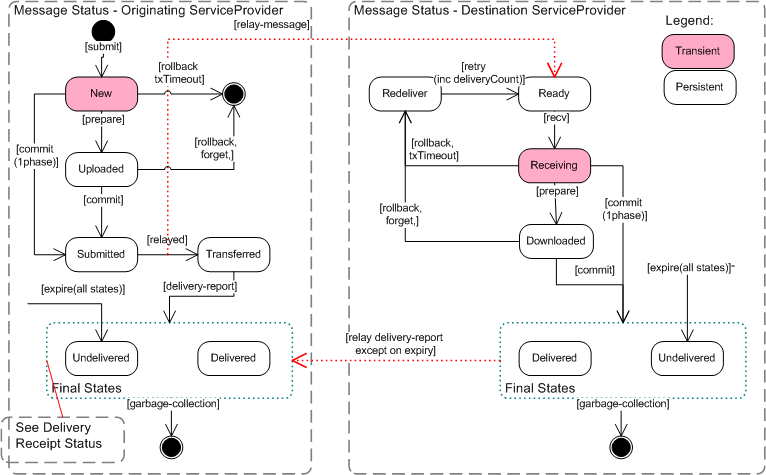
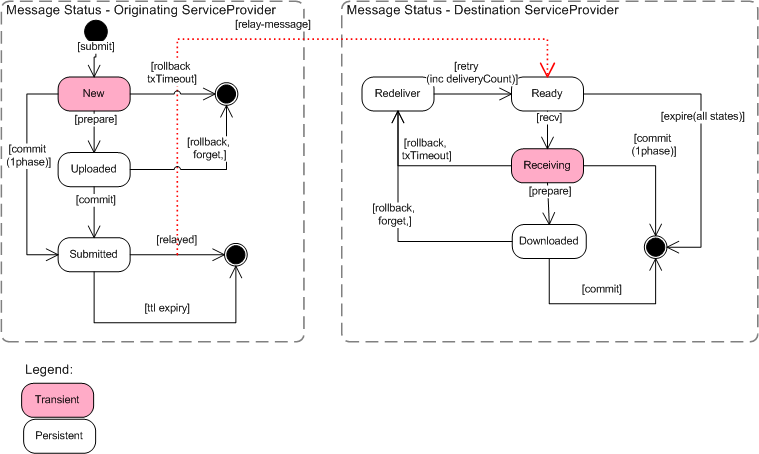
#115: redesign without DR.

Changed region(s): [[0.0, 0.0, 1.0, 1.0], [0.8485, 0.4934, 0.9697, 0.6167], [0.3939, 0.8634, 0.4242, 0.8943]]

diff --git a/service/src/main/java/org/tdmx/server/ws/mds/MDSImpl.java b/service/src/main/java/org/tdmx/server/ws/mds/MDSImpl.java
@@ -41,7 +41,6 @@ import org.tdmx.core.api.v01.mds.ws.MDS;
 import org.tdmx.core.api.v01.msg.ChunkReference;
 import org.tdmx.core.api.v01.msg.Destinationinfo;
 import org.tdmx.core.api.v01.msg.Destinationsession;
-import org.tdmx.core.api.v01.msg.Dr;
 import org.tdmx.core.api.v01.msg.Msg;
 import org.tdmx.core.api.v01.tx.Commit;
 import org.tdmx.core.api.v01.tx.CommitResponse;
@@ -62,14 +61,12 @@ import org.tdmx.lib.common.domain.ProcessingStatus;
 import org.tdmx.lib.message.domain.Chunk;
 import org.tdmx.lib.message.service.ChunkService;
 import org.tdmx.lib.zone.domain.Address;
-import org.tdmx.lib.zone.domain.AgentSignature;
 import org.tdmx.lib.zone.domain.Channel;
 import org.tdmx.lib.zone.domain.ChannelAuthorizationSearchCriteria;
 import org.tdmx.lib.zone.domain.ChannelMessage;
 import org.tdmx.lib.zone.domain.Destination;
 import org.tdmx.lib.zone.domain.Domain;
 import org.tdmx.lib.zone.domain.FlowQuota;
-import org.tdmx.lib.zone.domain.MessageState;
 import org.tdmx.lib.zone.domain.MessageStatus;
 import org.tdmx.lib.zone.domain.MessageStatusSearchCriteria;
 import org.tdmx.lib.zone.domain.Service;
@@ -131,7 +128,6 @@ public class MDSImpl implements MDS {
 	private int minTransactionTimeoutSec = 60; // 60s
 
 	private static final String NON_TX_SPEC_ID_PREFIX = "non-tx:";
-	private static final int DEFAULT_TX_TIMEOUT_SEC = 1800;
 
 	// -------------------------------------------------------------------------
 	// CONSTRUCTORS
@@ -274,37 +270,18 @@ public class MDSImpl implements MDS {
 			// caching the ROS address of the reverse channel
 
 			MessageContext ctx = rcv.endTransaction(tx.getXid());
-			if (ctx != null && ack.getDr() == null) {
-				// error not acknowledging previously received msg
-				ErrorCode.setError(ErrorCode.InvalidNonTransactionalAcknowledge, response, tx.getXid(), ctx.getMsgId());
-				return response;
-			} else if (ctx == null && ack.getDr() != null) {
+			if (ctx == null) {
 				// no current message in the session - cannot have a DeliveryReport
-				ErrorCode.setError(ErrorCode.InvalidDeliveryReceiptNoReceive, response, tx.getXid(),
-						ack.getDr().getMsgreference().getMsgId());
+				ErrorCode.setError(ErrorCode.InvalidAcknowledgeNoReceive, response);
 				return response;
-			} else if (ctx != null && ack.getDr() != null) {
-				ReceiptHolder rh = checkDr(tx.getXid(), ctx, ack.getDr(), response);
-				if (rh == null) {
-					return null;
-				}
+			} else {
 				// acknowledge the message, possibly opening the relay flow control
-				// FIXME ReceiptHolder.errorCode+msg too
 				ReceiveMessageResultHolder ackStatus = channelService.acknowledgeMessageReceipt(session.getZone(),
-						ctx.getMsg(), rh.signature);
+						ctx.getMsg());
 				if (ackStatus.flowControlOpened) {
 					// relay opened FC back to origin
 					relayFCWithRetry(session, rcv, ctx.getMsg().getChannel(), ackStatus.flowQuota);
 				}
-				if (ackStatus.msg.getState().isSameDomain()) {
-					// TODO #109: transfer DR back to origin
-
-				} else {
-					// relay DR back to origin
-					relayMsgWithRetry(session, rcv, ctx.getMsg().getChannel(), ctx.getMsg().getState());
-				}
-			} else {
-				log.debug("No current message and no DR for " + tx.getXid());
 			}
 		} else {
 			// must be tx or non tx not neither
@@ -415,47 +392,20 @@ public class MDSImpl implements MDS {
 		// Handle the acknowledge of previous received message and initiate relay back of DR
 		// caching the ROS address of the reverse channel
 		MessageContext ctx = rcv.endTransaction(ackRequest.getXid());
-		if (ctx != null && ackRequest.getDr() == null) {
-			// error not acknowledging previously received msg
-			ErrorCode.setError(ErrorCode.InvalidNonTransactionalAcknowledge, response, ackRequest.getXid(),
-					ctx.getMsgId());
-			return response;
-		} else if (ctx == null && ackRequest.getDr() != null) {
+		if (ctx == null) {
 			// no current message in the session - cannot have a DeliveryReport
-			ErrorCode.setError(ErrorCode.InvalidDeliveryReceiptNoReceive, response, ackRequest.getXid(),
-					ackRequest.getDr().getMsgreference().getMsgId());
+			ErrorCode.setError(ErrorCode.InvalidAcknowledgeNoReceive, response);
 			return response;
-		} else if (ctx != null && ackRequest.getDr() != null) {
-			// validate DR
-			ReceiptHolder rh = checkDr(ackRequest.getXid(), ctx, ackRequest.getDr(), response);
-			if (rh == null) {
-				return null;
-			}
+		} else {
 			// acknowledge the message, possibly opening the relay flow control
-			// FIXME ReceiptHolder.errorCode+msg too
 			ReceiveMessageResultHolder ackStatus = channelService.acknowledgeMessageReceipt(session.getZone(),
-					ctx.getMsg(), rh.signature);
-			if (ackStatus.flowControlOpened) {
+					ctx.getMsg());
+			if (ackStatus.flowControlOpened && !ctx.getMsg().getState().isSameDomain()) {
 				// relay opened FC back to origin
 				relayFCWithRetry(session, rcv, ctx.getMsg().getChannel(), ackStatus.flowQuota);
 			}
-			if (ackStatus.msg.getState().isSameDomain()) {
-				// transfer DR back to origin
-				// TODO #109: transfer DR back to origin
-			} else {
-				// relay DR back to origin
-				relayMsgWithRetry(session, rcv, ctx.getMsg().getChannel(), ctx.getMsg().getState());
-			}
-		} else {
-			log.debug("No current message and no DR for " + ackRequest.getXid());
 		}
 		return response;
-	}
-
-	private static class ReceiptHolder {
-		private Integer errorCode;
-		private String errorMessage;
-		private AgentSignature signature;
 	}
 
 	private Transaction getNonTransactionSpecification(Msgack ack) {
@@ -463,96 +413,6 @@ public class MDSImpl implements MDS {
 		tx.setTxtimeout(ack.getTxtimeout());
 		tx.setXid(NON_TX_SPEC_ID_PREFIX + ack.getClientId());
 		return tx;
-	}
-
-	private boolean isNonTransactionSpecification(Transaction txSpec) {
-		return txSpec.getXid().startsWith(NON_TX_SPEC_ID_PREFIX);
-	}
-
-	private ReceiptHolder checkDr(String xid, MessageContext msg, Dr ack,
-			org.tdmx.core.api.v01.common.Acknowledge response) {
-		Dr dr = checkAcknowledge(xid, msg, ack, response);
-		if (dr == null) {
-			return null;
-		}
-		ReceiptHolder res = new ReceiptHolder();
-		if (dr.getError() != null) {
-			res.errorCode = dr.getError().getCode();
-			res.errorMessage = dr.getError().getDescription();
-		}
-		if (dr.getReceiptsignature() != null) {
-			AgentSignature receipt = checkAcknowledgeSignature(msg, dr, response);
-			if (receipt == null) {
-				return null;
-			}
-			res.signature = receipt;
-		}
-		return res;
-	}
-
-	private AgentSignature checkAcknowledgeSignature(MessageContext msg, Dr dr,
-			org.tdmx.core.api.v01.common.Acknowledge response) {
-		AgentSignature receipt = a2d.mapUserSignature(dr.getReceiptsignature());
-		// check that the DR signer is the same as the receiver UC
-		if (!receipt.getCertificateChainPem()
-				.equals(msg.getMsg().getDeliveryReport().getReceiverSignature().getCertificateChainPem())) {
-			ErrorCode.setError(ErrorCode.InvalidDeliveryReceiptSignerMismatch, response);
-			return null;
-		}
-		// check signature
-		if (!SignatureUtils.checkDeliveryReceiptSignature(dr)) {
-			ErrorCode.setError(ErrorCode.InvalidSignatureDeliveryReceipt, response);
-			return null;
-		}
-		return receipt;
-	}
-
-	private Dr checkAcknowledge(String xid, MessageContext msg, Dr dr,
-			org.tdmx.core.api.v01.common.Acknowledge response) {
-		// check that the ack of the msg in the dr matches the ctx.
-		if (!dr.getMsgreference().getMsgId().equals(msg.getMsgId())) {
-			ErrorCode.setError(ErrorCode.InvalidDeliveryReceiptMsgIdMismatch, response, xid, msg.getMsgId(),
-					dr.getMsgreference().getMsgId());
-			return null;
-		}
-		if (!dr.getMsgreference().getSignature().equals(msg.getMsg().getSignature().getValue())) {
-			ErrorCode.setError(ErrorCode.InvalidDeliveryReceiptSignatureMismatch, response, xid, msg.getMsgId());
-			return null;
-		}
-		// extref is optional but must be replied exactly as received
-		if (StringUtils.hasText(dr.getMsgreference().getExternalReference())) {
-			if (!dr.getMsgreference().getExternalReference().equals(msg.getMsg().getExternalReference())) {
-				ErrorCode.setError(ErrorCode.InvalidDeliveryReceiptExtRefMismatch, response, xid, msg.getMsgId());
-				return null;
-			}
-		} else if (StringUtils.hasText(msg.getMsg().getExternalReference())) {
-			ErrorCode.setError(ErrorCode.InvalidDeliveryReceiptExtRefMismatch, response, xid, msg.getMsgId());
-			return null;
-		}
-
-		// if it's a NACK we must describe the problem.
-		if (dr.getError() != null) {
-			if (dr.getError().getCode() == 0) {
-				ErrorCode.setError(ErrorCode.MissingErrorCode, response);
-				return null;
-			}
-			if (!StringUtils.hasText(dr.getError().getDescription())) {
-				ErrorCode.setError(ErrorCode.MissingErrorDescription, response);
-				return null;
-			}
-		}
-
-		// DR can sign the error and the message ref, but if we don't have an error it must be signed.
-		if (dr.getError() == null && dr.getReceiptsignature() == null) {
-			ErrorCode.setError(ErrorCode.MissingUserSignature, response);
-			return null;
-		}
-		if (dr.getReceiptsignature() != null) {
-			if (validator.checkUsersignature(dr.getReceiptsignature(), response) == null) {
-				return null;
-			}
-		}
-		return dr;
 	}
 
 	@Override
@@ -675,37 +535,6 @@ public class MDSImpl implements MDS {
 				ProcessingState error = ProcessingState.error(ProcessingState.FAILURE_RELAY_RETRY,
 						rs.getErrorCode().getErrorMessage());
 				channelService.updateStatusFlowQuota(fc.getId(), error);
-				// remove any cached ros address since not working
-				rc.clearRosTcpAddress(channel);
-			}
-		} else {
-			// cache the working ROS address
-			rc.setRosTcpAddress(channel, rs.getRosTcpAddress());
-		}
-	}
-
-	private void relayMsgWithRetry(MDSServerSession session, ReceiverContext rc, Channel channel, MessageState state) {
-		// relay to the last known good ros for the channel.
-		RelayStatus rs = relayClientService.relayChannelMessage(rc.getRosTcpAddress(channel), session.getAccountZone(),
-				session.getZone(), session.getDomain(), channel, state);
-		if (!rs.isSuccess()) {
-			if (rs.getErrorCode().isRetryable()) {
-				RelayStatus retry = relayClientService.relayChannelMessage(null /* get new MRS session */,
-						session.getAccountZone(), session.getZone(), session.getDomain(), channel, state);
-				if (!retry.isSuccess()) {
-					ProcessingState error = ProcessingState.error(ProcessingState.FAILURE_RELAY_RETRY,
-							rs.getErrorCode().getErrorMessage());
-					channelService.updateMessageProcessingState(state.getId(), error);
-					// remove any cached ros address since not working
-					rc.clearRosTcpAddress(channel);
-				} else {
-					// cache the potentially changed ROS address
-					rc.setRosTcpAddress(channel, retry.getRosTcpAddress());
-				}
-			} else {
-				ProcessingState error = ProcessingState.error(ProcessingState.FAILURE_RELAY_RETRY,
-						rs.getErrorCode().getErrorMessage());
-				channelService.updateMessageProcessingState(state.getId(), error);
 				// remove any cached ros address since not working
 				rc.clearRosTcpAddress(channel);
 			}

diff --git a/service/src/main/java/org/tdmx/lib/zone/service/ChannelServiceRepositoryImpl.java b/service/src/main/java/org/tdmx/lib/zone/service/ChannelServiceRepositoryImpl.java
@@ -36,7 +36,6 @@ import org.tdmx.lib.zone.dao.ChannelDao;
 import org.tdmx.lib.zone.dao.DestinationDao;
 import org.tdmx.lib.zone.dao.MessageDao;
 import org.tdmx.lib.zone.dao.ServiceDao;
-import org.tdmx.lib.zone.domain.AgentSignature;
 import org.tdmx.lib.zone.domain.Channel;
 import org.tdmx.lib.zone.domain.ChannelAuthorization;
 import org.tdmx.lib.zone.domain.ChannelAuthorizationSearchCriteria;
@@ -598,14 +597,11 @@ public class ChannelServiceRepositoryImpl implements ChannelService {
 
 	@Override
 	@Transactional(value = "ZoneDB")
-	public ReceiveMessageResultHolder acknowledgeMessageReceipt(Zone zone, ChannelMessage msg, AgentSignature receipt) {
+	public ReceiveMessageResultHolder acknowledgeMessageReceipt(Zone zone, ChannelMessage msg) {
 		// lock quota, reduce undelivered buffer, set status if crossing low limit
 		ChannelMessage existingMsg = messageDao.loadById(msg.getId(), true);
 		if (existingMsg != null) {
-			existingMsg.setReceipt(receipt);
-
 			existingMsg.getState().setStatus(MessageStatus.DELIVERED);
-			existingMsg.getState().setProcessingState(ProcessingState.pending());
 		}
 
 		FlowQuota quota = channelDao.lock(msg.getChannel().getQuota().getId());

diff --git a/service/src/main/java/org/tdmx/lib/zone/service/ChannelService.java b/service/src/main/java/org/tdmx/lib/zone/service/ChannelService.java
@@ -24,7 +24,6 @@ import org.tdmx.core.api.v01.mds.ws.MDS;
 import org.tdmx.core.api.v01.mrs.ws.MRS;
 import org.tdmx.core.api.v01.scs.ws.SCS;
 import org.tdmx.lib.common.domain.ProcessingState;
-import org.tdmx.lib.zone.domain.AgentSignature;
 import org.tdmx.lib.zone.domain.Channel;
 import org.tdmx.lib.zone.domain.ChannelAuthorization;
 import org.tdmx.lib.zone.domain.ChannelAuthorizationSearchCriteria;
@@ -424,10 +423,9 @@ public interface ChannelService {
 	 * @param zone
 	 * @param msg
 	 *            detached ChannelMessage
-	 * @param receipt
-	 *            the delivery report.
+	 * @return the flowquota state.
 	 */
-	public ReceiveMessageResultHolder acknowledgeMessageReceipt(Zone zone, ChannelMessage msg, AgentSignature receipt);
+	public ReceiveMessageResultHolder acknowledgeMessageReceipt(Zone zone, ChannelMessage msg);
 
 	/**
 	 * Update the ProcessingState of the Channel's DestinationSession.

diff --git a/service/src/main/java/org/tdmx/server/ws/ErrorCode.java b/service/src/main/java/org/tdmx/server/ws/ErrorCode.java
@@ -127,10 +127,7 @@ public enum ErrorCode {
 	InvalidReceiveAcknowledgeMode(
 			500,
 			"Invalid receive. Either use transactional receiving or auto acknowledge, not both."),
-	InvalidNonTransactionalAcknowledge(500, "Non transactional session %s did not acknowledge receipt of message %s."),
-	InvalidDeliveryReceiptNoReceive(
-			500,
-			"Non transactional session %s acknowledged receipt of message %s which id did not receive."),
+	InvalidAcknowledgeNoReceive(500, "Non transactional acknowledged without receiving a message."),
 	MissingReceiveAcknowledgeMode(
 			500,
 			"Invalid receive. Either use transactional receiving or a non transactional session."),

diff --git a/service/src/test/java/org/tdmx/server/ws/mds/MDSImplUnitTest.java b/service/src/test/java/org/tdmx/server/ws/mds/MDSImplUnitTest.java
@@ -279,6 +279,8 @@ public class MDSImplUnitTest {
 		assertTrue(setCft);
 	}
 
+	// TODO #101: inject message and then do receive, then the transactional variants.
+
 	private void assertSuccess(Acknowledge ack) {
 		assertNotNull(ack);
 		String errorDesc = ack.getError() != null ? ack.getError().getDescription() : "ok";

diff --git a/service/src/main/java/org/tdmx/lib/zone/domain/MessageStatus.java b/service/src/main/java/org/tdmx/lib/zone/domain/MessageStatus.java
@@ -26,9 +26,7 @@ public enum MessageStatus {
 	TRANSFERRED,
 	READY,
 	DOWNLOADED,
-	REDELIVER,
-	DELIVERED,
-	UNDELIVERED;
+	DELIVERED;
 
 	public static final int MAX_MSGSTATUS_LEN = 12;
 }

diff --git a/wiki/HighLevelConcepts.md b/wiki/HighLevelConcepts.md
@@ -47,11 +47,17 @@ The trust in a given User Certificate is achieved as follows:
 The lifecycle of messages sent to the ServiceProvider are shown below.
 ![Message Lifecycle](https://raw.githubusercontent.com/TDMX/tdmx/master/wiki/images/logical-concept/message-status.png "logical-concepts/message-status.png")
 
-The sender also is capable of receiving the message delivery report - or receipt. This is shown by diagram below:
+In the case that the sender and receiver belong to the same domain, then there is no actual relay of the message . The message lifecycle looks like:
 
 ![Message Lifecycle (Same Domain)](https://raw.githubusercontent.com/TDMX/tdmx/master/wiki/images/logical-concept/message-status-same-domain.png "logical-concepts/message-status-same-domain.png")
 
-In the case that the sender and receiver belong to the same domain, then there is no effective relay of the message and delivery report and the message lifecycle looks like:
+The persistence lifecycle of messages and chunks is shown below:
 
-![Receipt Lifecycle](https://raw.githubusercontent.com/TDMX/tdmx/master/wiki/images/logical-concept/receipt-status.png "logical-concepts/receipt-status.png")
+![Message Persistence](https://raw.githubusercontent.com/TDMX/tdmx/master/wiki/images/logical-concept/message-persistence.png "logical-concepts/message-persistence.png")
+
+### Service Interactions
+
+Within the service provider implementation, the following diagram shows how the internal services interact to provide the overall communication function.
+
+![Service Interactions](https://raw.githubusercontent.com/TDMX/tdmx/master/wiki/images/logical-concept/service-interactions.png "logical-concepts/service-interactions.png")
 
